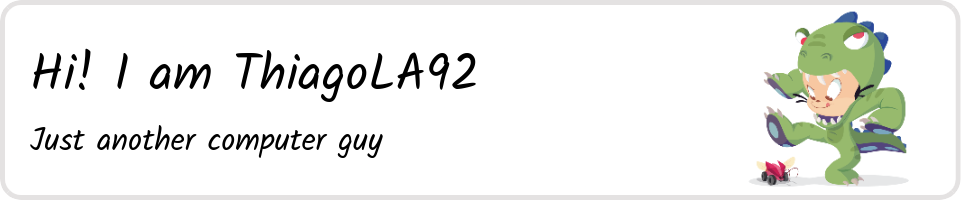
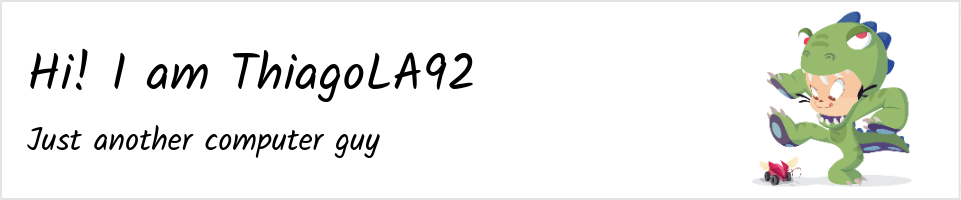
Update light image

diff --git a/README.md b/README.md
@@ -1,6 +1,6 @@
 <picture>
   <source media="(prefers-color-scheme: dark)" srcset="https://github.com/thiagola92/thiagola92/raw/main/github-header-image-dark.png">
-  <img src="https://github.com/thiagola92/thiagola92/raw/main/github-header-image-light.png">
+  <img src="./github-header-image-light.png">
 </picture>  
 
 <picture>
